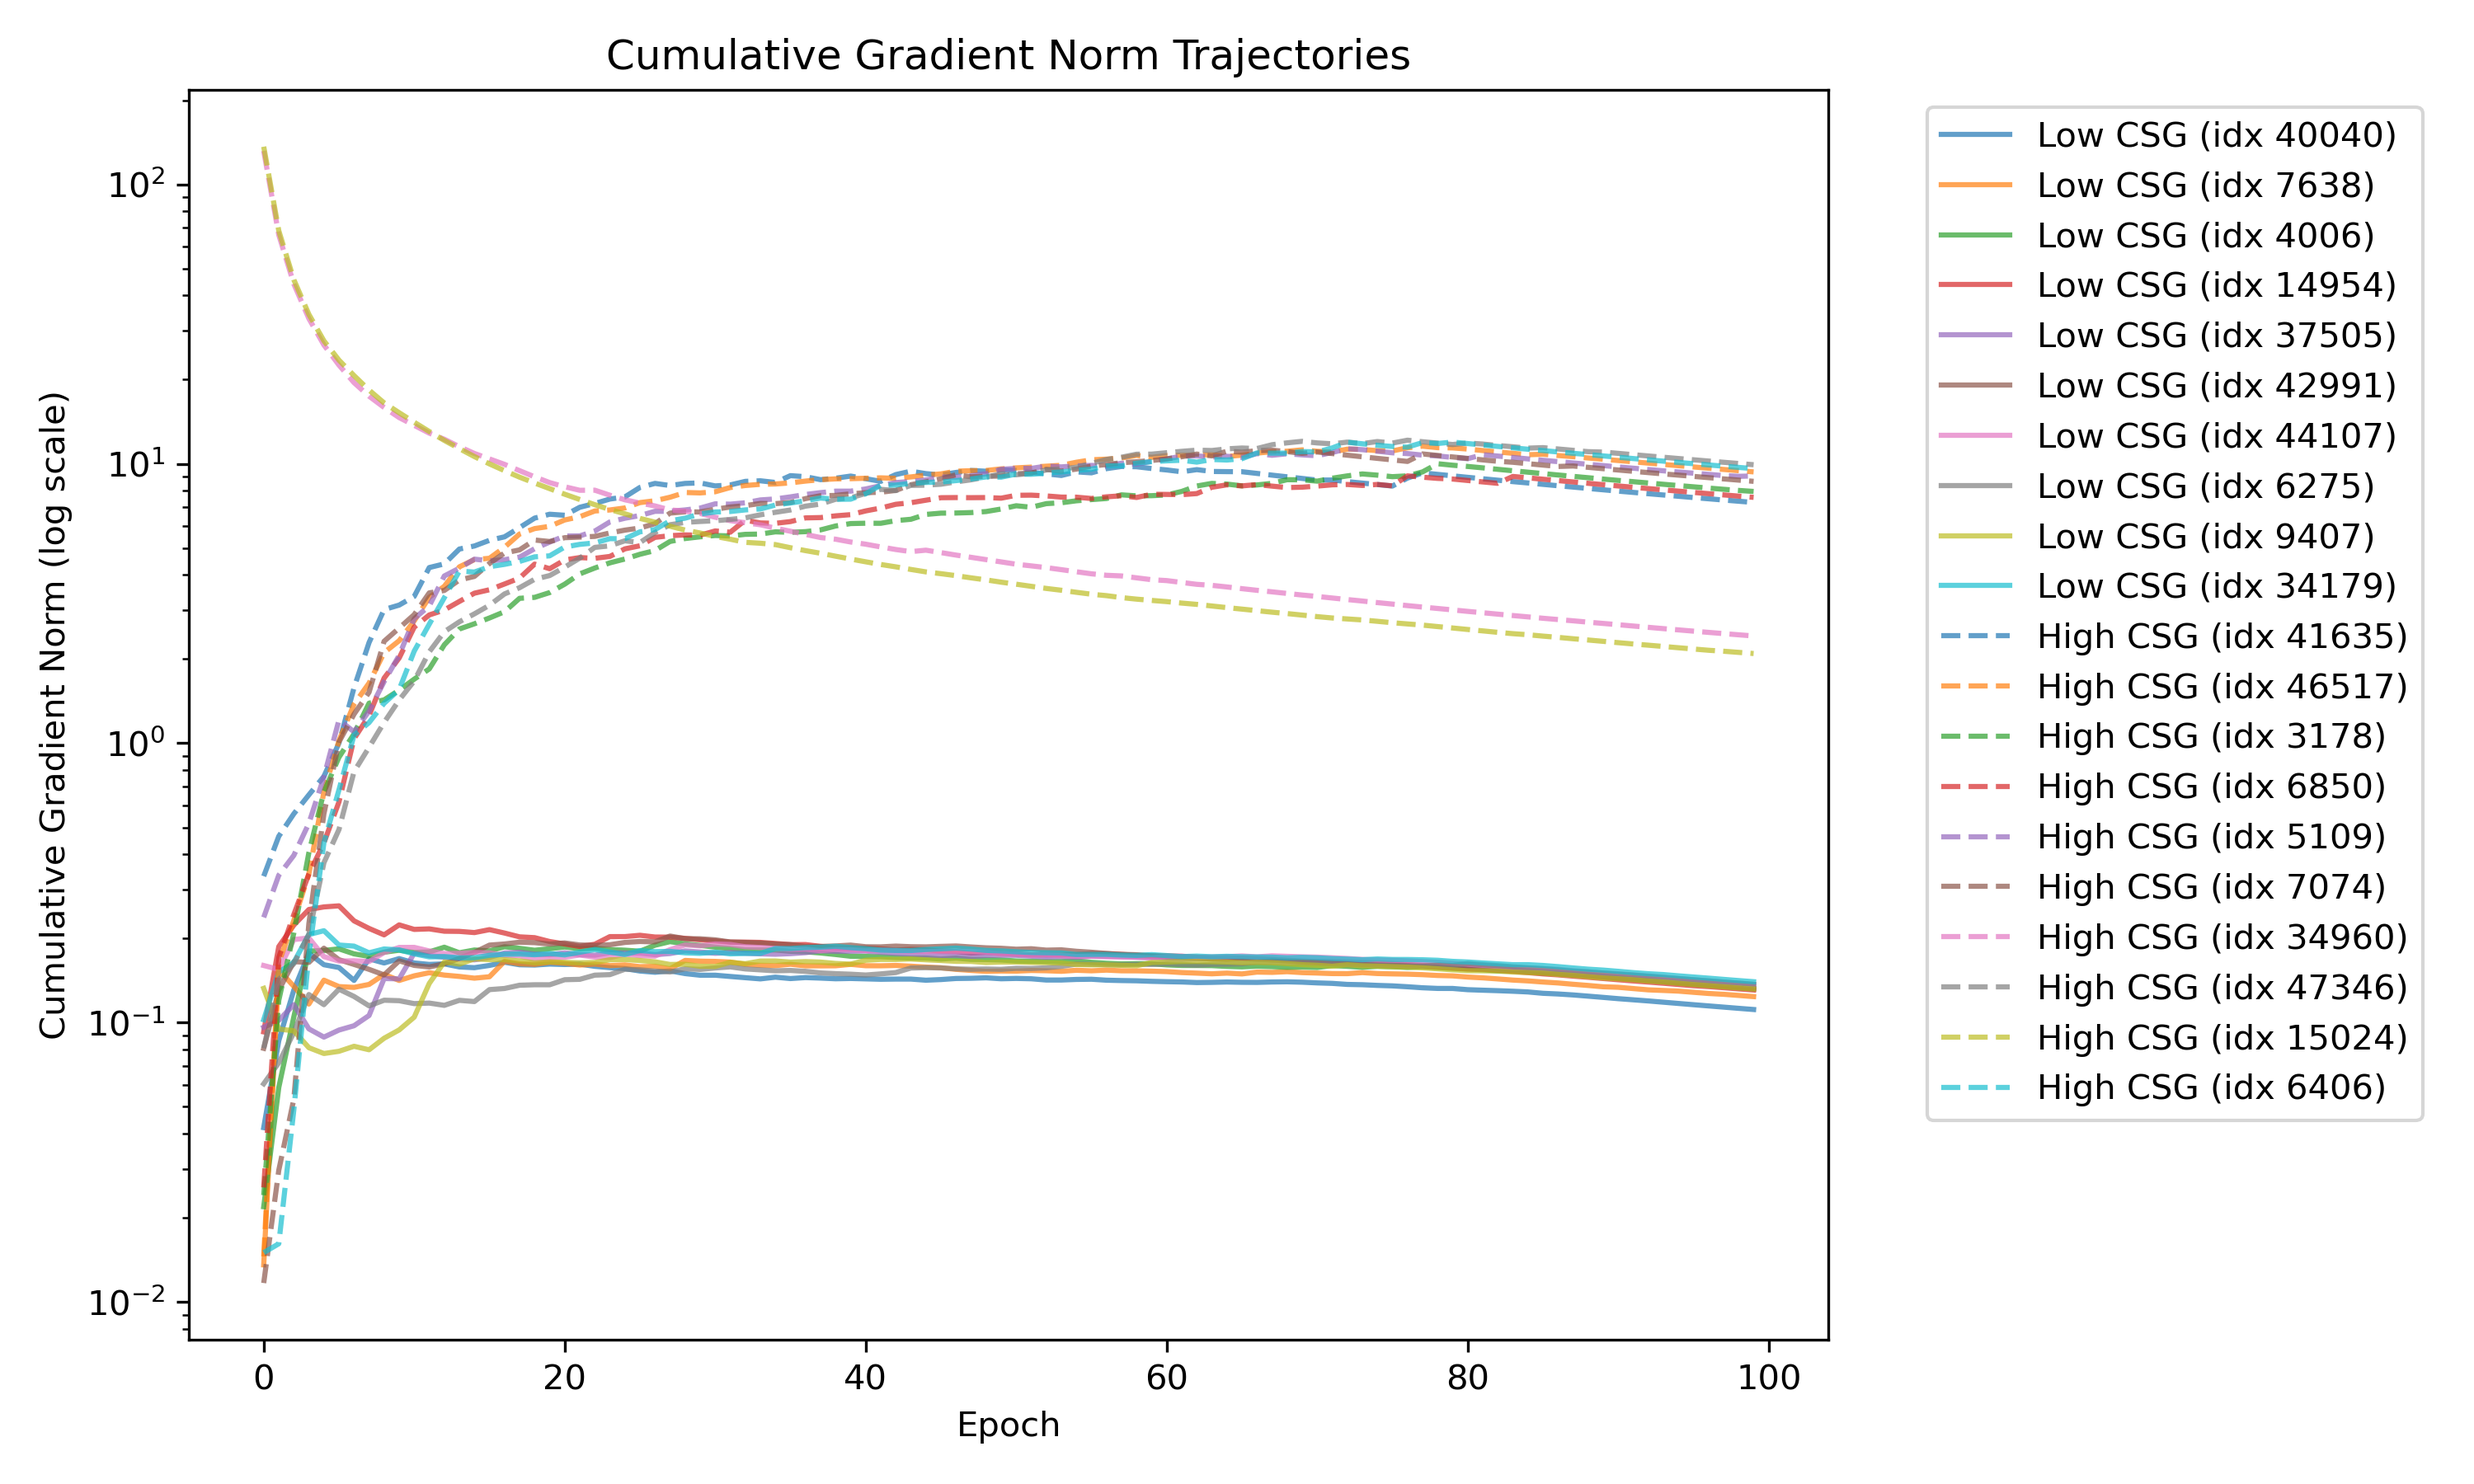
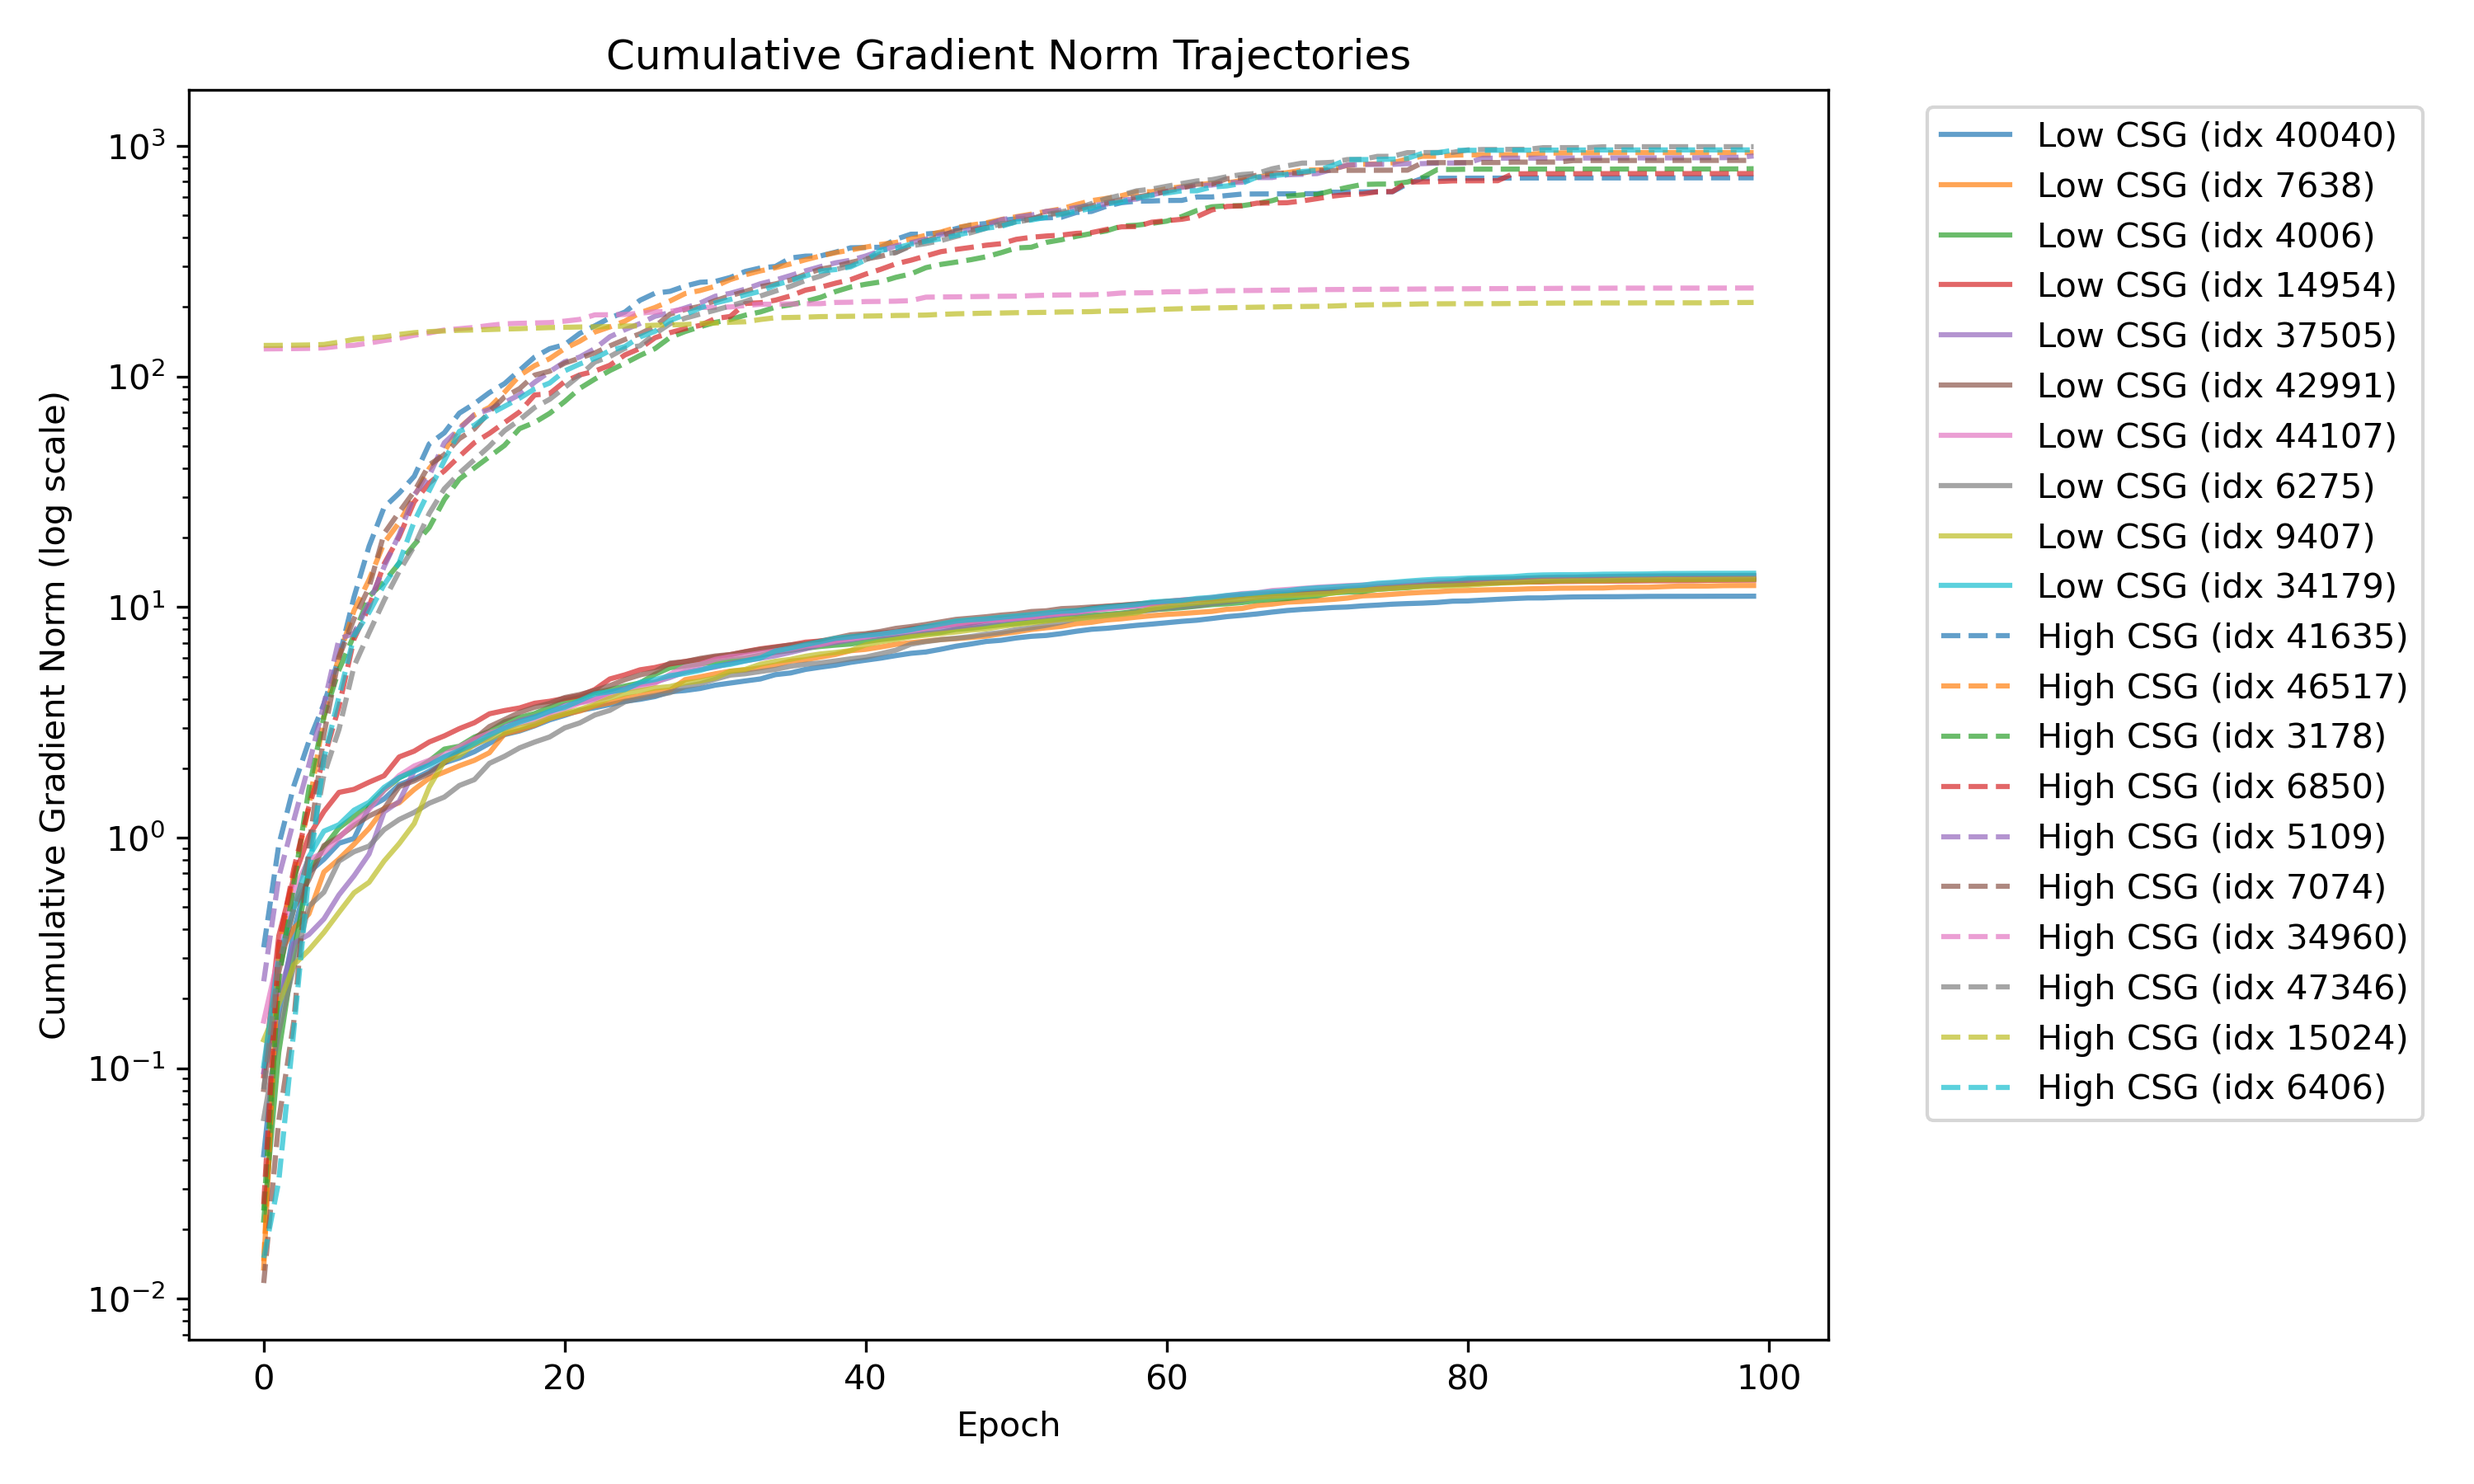
current plotting status

Changed region(s): [[0.093, 0.0933, 0.713, 0.84], [0.031, 0.6844, 0.062, 0.7156], [0.031, 0.0933, 0.062, 0.1244]]

diff --git a/plot_metrics.py b/plot_metrics.py
@@ -24,8 +24,8 @@ def main():
     cumulative_grad_norm_tracker = torch.cumsum(grad_norm_tracker, dim=0) / epoch_norm
 
     # non-normalized
-    # cumulative_loss_tracker = torch.cumsum(loss_tracker, dim=0)
-    # cumulative_grad_norm_tracker = torch.cumsum(grad_norm_tracker, dim=0)
+    cumulative_loss_tracker = torch.cumsum(loss_tracker, dim=0)
+    cumulative_grad_norm_tracker = torch.cumsum(grad_norm_tracker, dim=0)
 
     # Calculate CSG: Sum of squared input gradients over all epochs
     # CSG(z_i) ≈ sum_{t=0}^{Tmax} ||∇x_i ℓ(w_t)||_2^2
